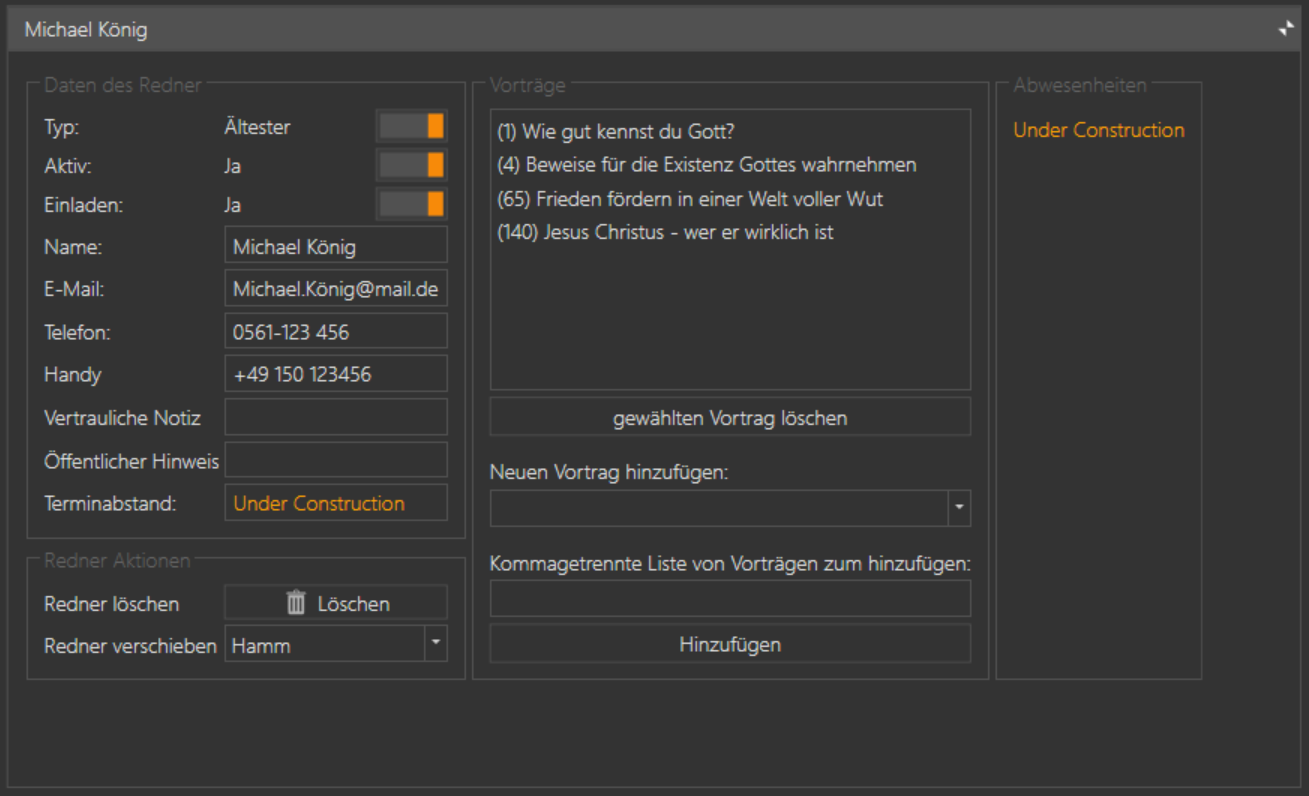
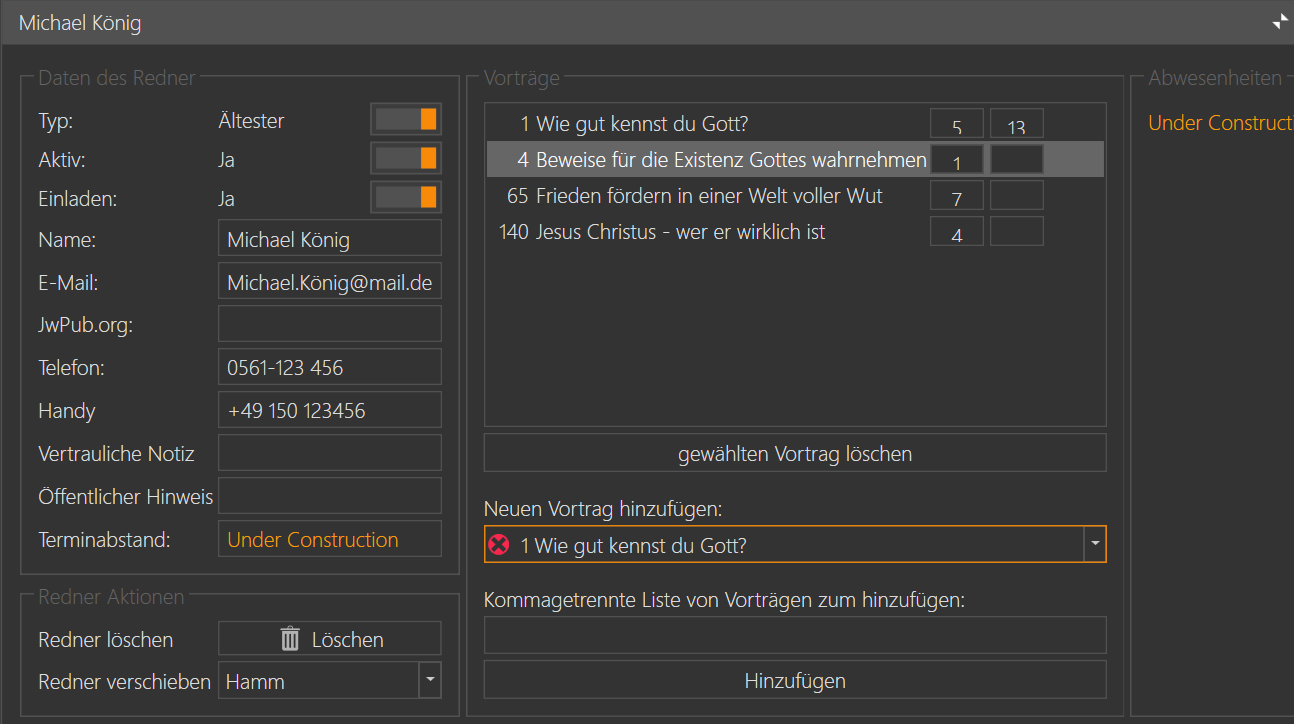
Changelog und Handbuch

diff --git a/Vortragsmanager/Navigation/DashboardView.xaml b/Vortragsmanager/Navigation/DashboardView.xaml
@@ -84,25 +84,13 @@
                        dxwuin:Navigation.NavigateTo="ExternalQuestionEdit">
                 <Image Source="/Images/NewMail_64x64.png"  Margin="20" />
             </dxlc:Tile>
-            <dxlc:Tile Header="Listen ausgeben"
-                       Background="#64b414"
-                       Size="Small"
-                       dxwuin:Navigation.NavigateTo="ListCreateView"
-                       dxlc:FlowLayoutControl.IsFlowBreak="True"
-                       dxlc:TileLayoutControl.GroupHeader="Verwaltung">
-                <Image Source="/Images/ListePrint_64x64.png" Margin="20" />
-            </dxlc:Tile>
             <dxlc:Tile Header="Versammlungen"
                        Background="#0a6432"
                        Size="Small"
-                       dxwuin:Navigation.NavigateTo="VersammlungSettingsView">
+                       dxwuin:Navigation.NavigateTo="VersammlungSettingsView"
+                       dxlc:FlowLayoutControl.IsFlowBreak="True"
+                       dxlc:TileLayoutControl.GroupHeader="Verwaltung">
                 <Image Source="/Images/Versammlung2_64x64.png" Margin="20" />
-            </dxlc:Tile>
-            <dxlc:Tile Size="Small"
-                       Header="Vorlagen"
-                       Background="#009614"
-                       dxwuin:Navigation.NavigateTo="VorlagenView">
-                <Image Source="/Images/ListeSettings_64x64.png" Margin="20" />
             </dxlc:Tile>
             <dxlc:Tile Header="Redner"
                        Background="#0a6432"
@@ -110,6 +98,19 @@
                        dxwuin:Navigation.NavigateTo="RednerView">
                 <Image Source="/Images/Person_64x64.png" Margin="20" />
             </dxlc:Tile>
+            <dxlc:Tile Header="Listen ausgeben"
+                       Background="#64b414"
+                       Size="Small"
+                       dxwuin:Navigation.NavigateTo="ListCreateView">
+                <Image Source="/Images/ListePrint_64x64.png" Margin="20" />
+            </dxlc:Tile>
+            <dxlc:Tile Size="Small"
+                       Header="Vorlagen"
+                       Background="#009614"
+                       dxwuin:Navigation.NavigateTo="VorlagenView">
+                <Image Source="/Images/ListeSettings_64x64.png" Margin="20" />
+            </dxlc:Tile>
+
             <dxlc:Tile Size="Small"
                        Header="Programm"
                        Background="#64be64"

diff --git a/Vortragsmanager/Properties/AssemblyInfo.cs b/Vortragsmanager/Properties/AssemblyInfo.cs
@@ -43,6 +43,6 @@ using System.Windows;
 // You can specify all the values or you can default the Build and Revision Numbers
 // by using the '*' as shown below:
 // [assembly: AssemblyVersion("1.0.*")]
-[assembly: AssemblyVersion("0.18.*")]
+[assembly: AssemblyVersion("0.19.*")]
 //[assembly: AssemblyFileVersion("0.9.0.0")]
 [assembly: NeutralResourcesLanguage("de-DE")]

diff --git a/Changelog.md b/Changelog.md
@@ -1,3 +1,26 @@
+[21.07.2020]
+
+Neues System zum speichern der Vorlagen. Als neue Vorlage wurde "Signatur" hinzugefügt. Die Signatur kann wiederum in allen anderen Vorlagen benutzt werden.
+Wird eine Vorlage verändert, kann sie nun wieder auf den Originaltext zurückgesetzt werden.  
+__Achtung:__ Durch die Änderungen müssen leider alle Vorlagen zurückgesetzt und nochmals von dir angepasst werden!  
+
+Neue Redner Einstellungen:
+* Es kann nun zu jedem Redner auch das Lied + Ersatzlied zu seinen Vorträgen gespeichert werden.
+* Es kann nun zu jedem Redner die jwpub Adresse gespeichert werden.
+
+Neue Versammlungseinstellungen:
+* Zu jeder Versammlung können die Zoom Zugangsdaten gespeichert werden.
+
+Neuer Menübereich:
+* Auf dem Dashboard gibt es einen neuen Menüpunkt "Redner" mit Schnellzugriff auf alle Redner.
+
+Sonstige Fehlerbehebungen und Verbesserungen:
+* Ungültige Vorträge werden nicht mehr angezeigt
+* Fehler beim Verschieben von Ereignissen behoben
+* Fehler in Rednersuche behoben (Filtereinstellungen)
+* Fehlerbehebung in Berechnung wann ein Vortrag zuletzt gehalten wurde
+* Handbuch Anzeige im Web optimiert
+
 [14.05.2020]
 Handbuch Ergänzungen
 

diff --git a/docs/Versammlungen.md b/docs/Versammlungen.md
@@ -49,6 +49,8 @@ Zuteilungen der Vergangenheit werden dann abgeändert, der Vortrag bleibt weiter
 
 ### Rednerliste
 
+Die Redner können auch über das Hauptmenü [Redner](Redner.md) angezeigt und bearbeitet werden.
+
 Im rechten Bereich werden die angelegten Redner angezeigt. Dargestellt werden folgende Informationen:
 
 * Aktiv/Inaktiv (grün/rot) zeigt an ob der Redner weiterhin Vorträge in anderen Versammlungen hält.
@@ -100,4 +102,4 @@ Die Liste der Vorträge die ein Diener ausgearbeitet hat.
 
 UNDER CONSTRUCTION
 
-[zurück](ListenAusgeben.md){: .btn .btn--inverse}  [weiter](Vorlagen.md){: .btn .btn--inverse}
+[zurück](ListenAusgeben.md){: .btn .btn--inverse}  [weiter](Redner.md){: .btn .btn--inverse}

diff --git a/docs/Vorlagen.md b/docs/Vorlagen.md
@@ -25,4 +25,10 @@ Beschreibung (Parameter)
 Vorlagen Inhalt
 :   Hier steht der Haupttext der Mailvorlage. Die Platzhalter müssen durch {}-Klammern gekennzeichnet sein. Insbesondere die Signatur (deine Kontaktdaten) sowie die Versammlungsdaten sollten hier einmalig eingesetzt und gespeichert werden.
 
+Zurücksetzen
+:   Der Inhalt der Vorlage wird gelöscht und gegen den Standard Wert ausgetauscht, der bei Programmauslieferung dabei ist. 
+
+Abbrechen
+:   Die aktuellen Bearbeitungen der Vorlage werden wieder gelöscht und der zuletzt gespeicherte Inhalt wieder hergestellt.
+
 [zurück](Versammlungen.md){: .btn .btn--inverse} [weiter](ProgrammEinstellungen.md){: .btn .btn--inverse}
